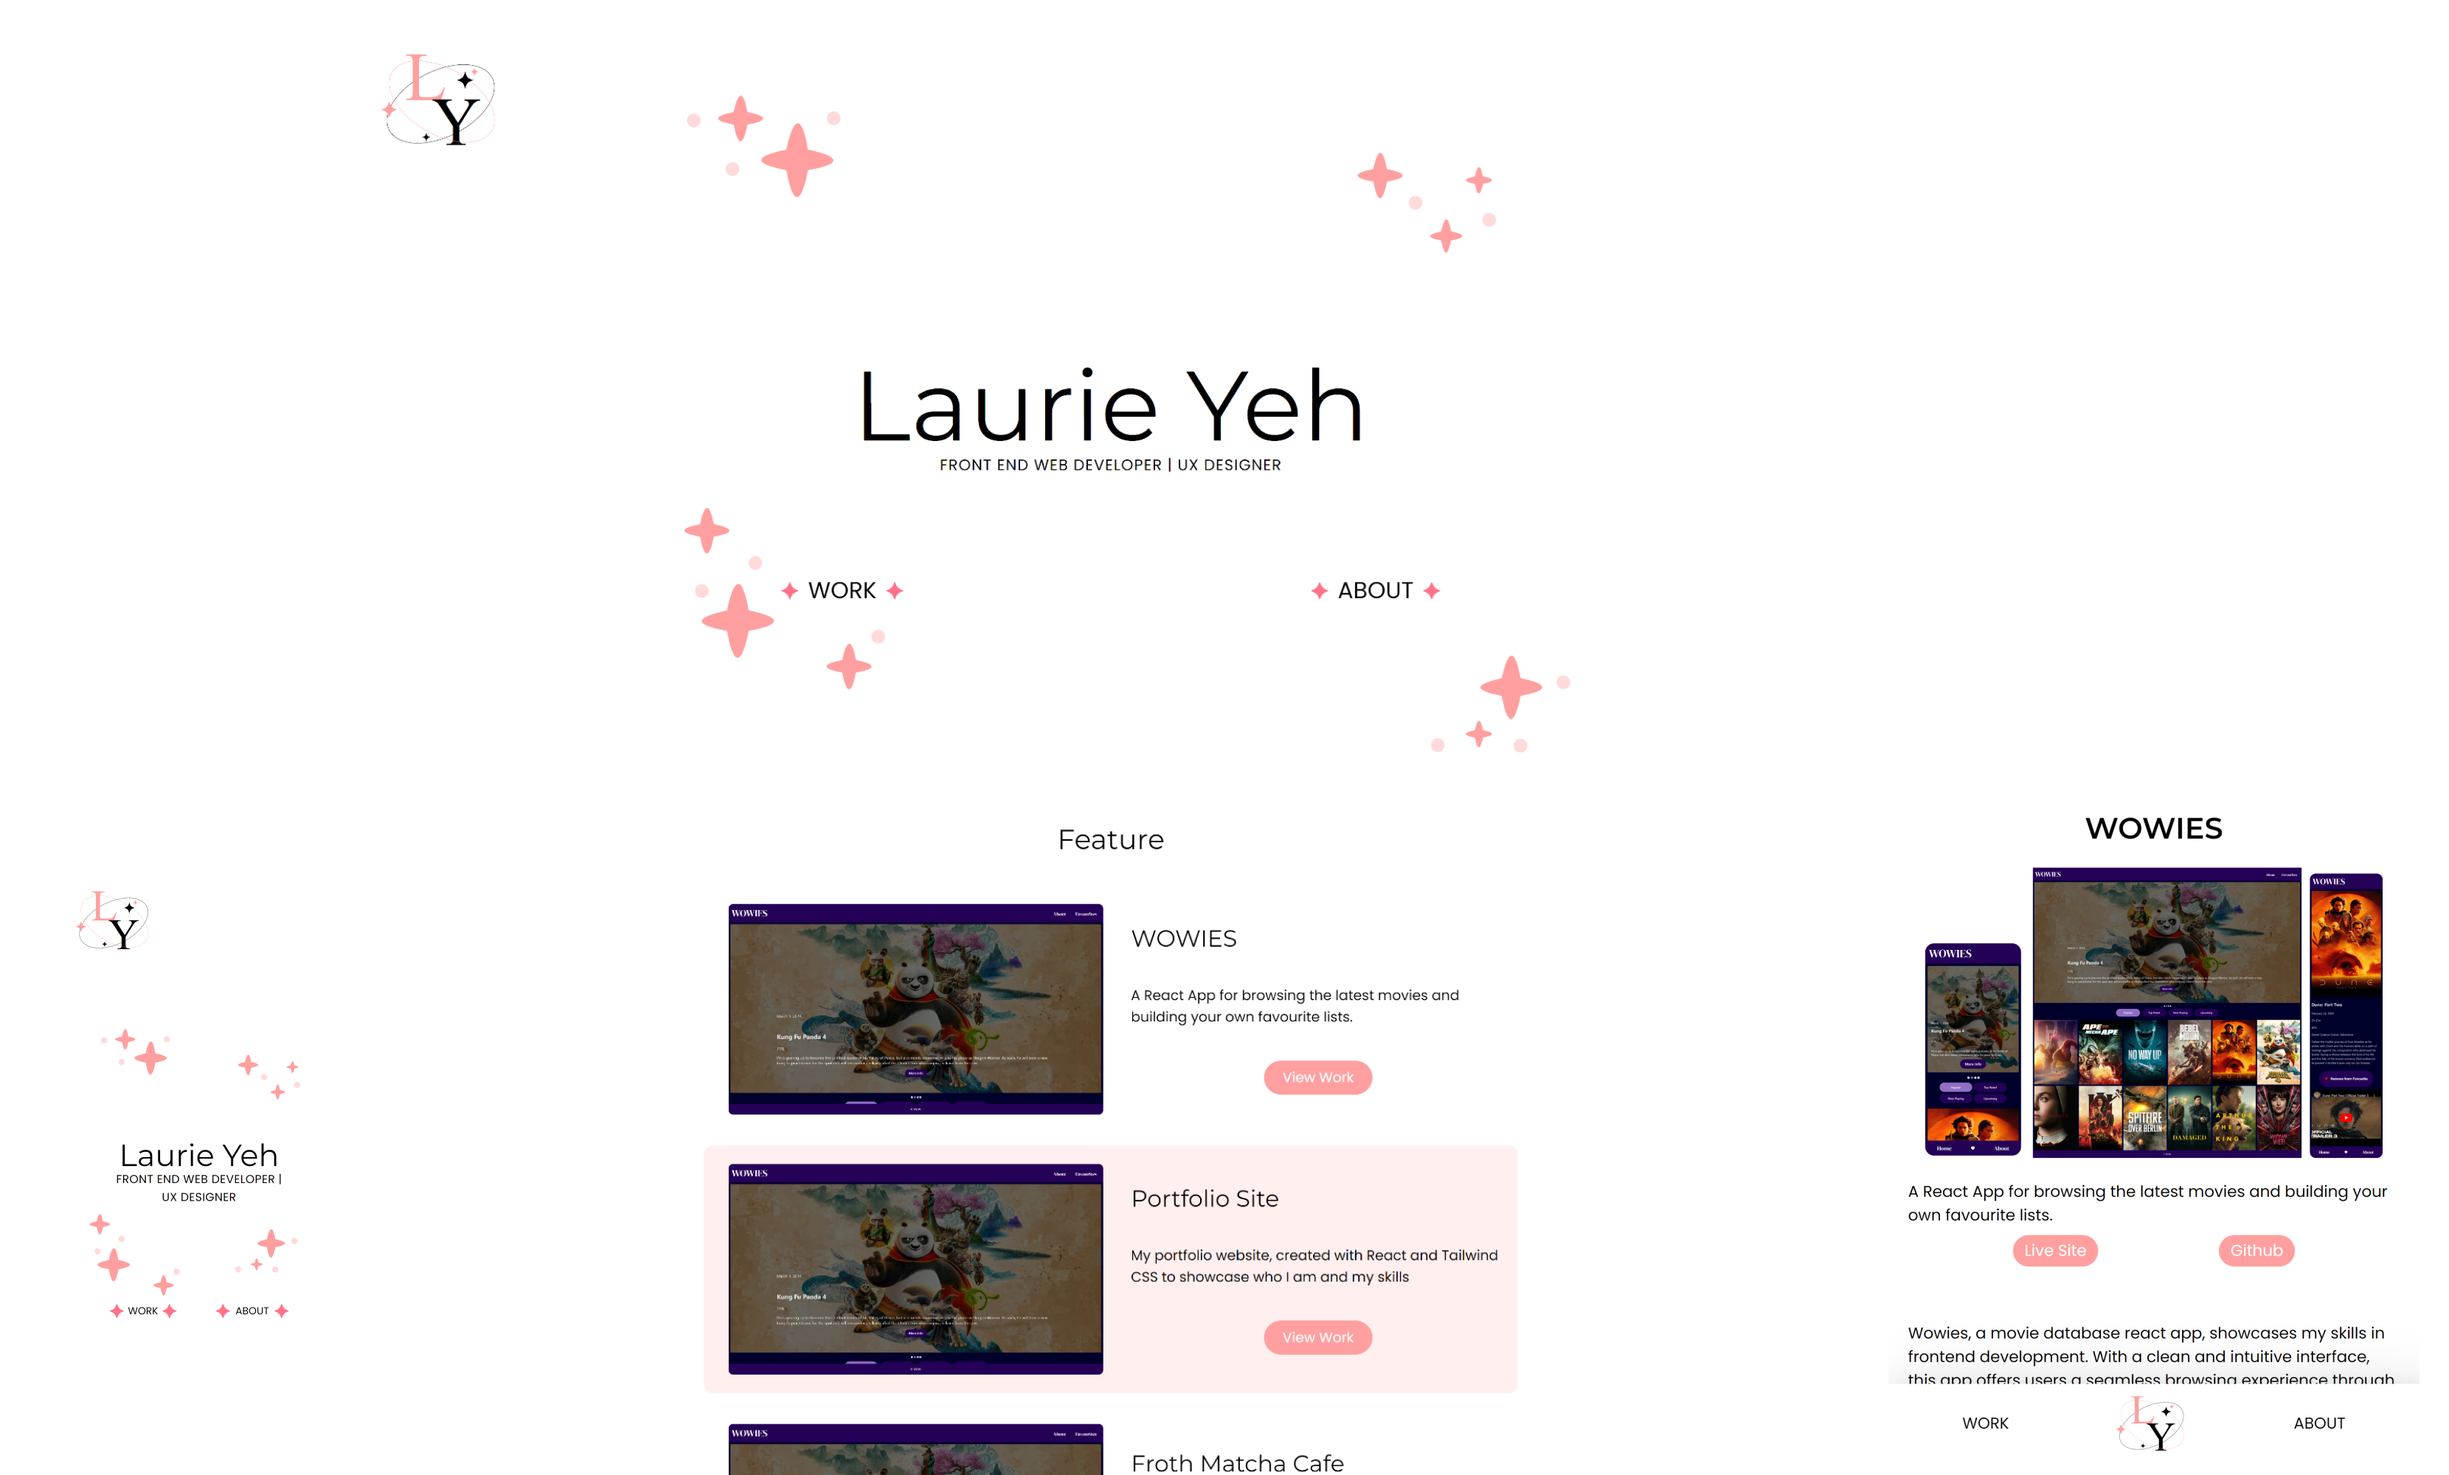
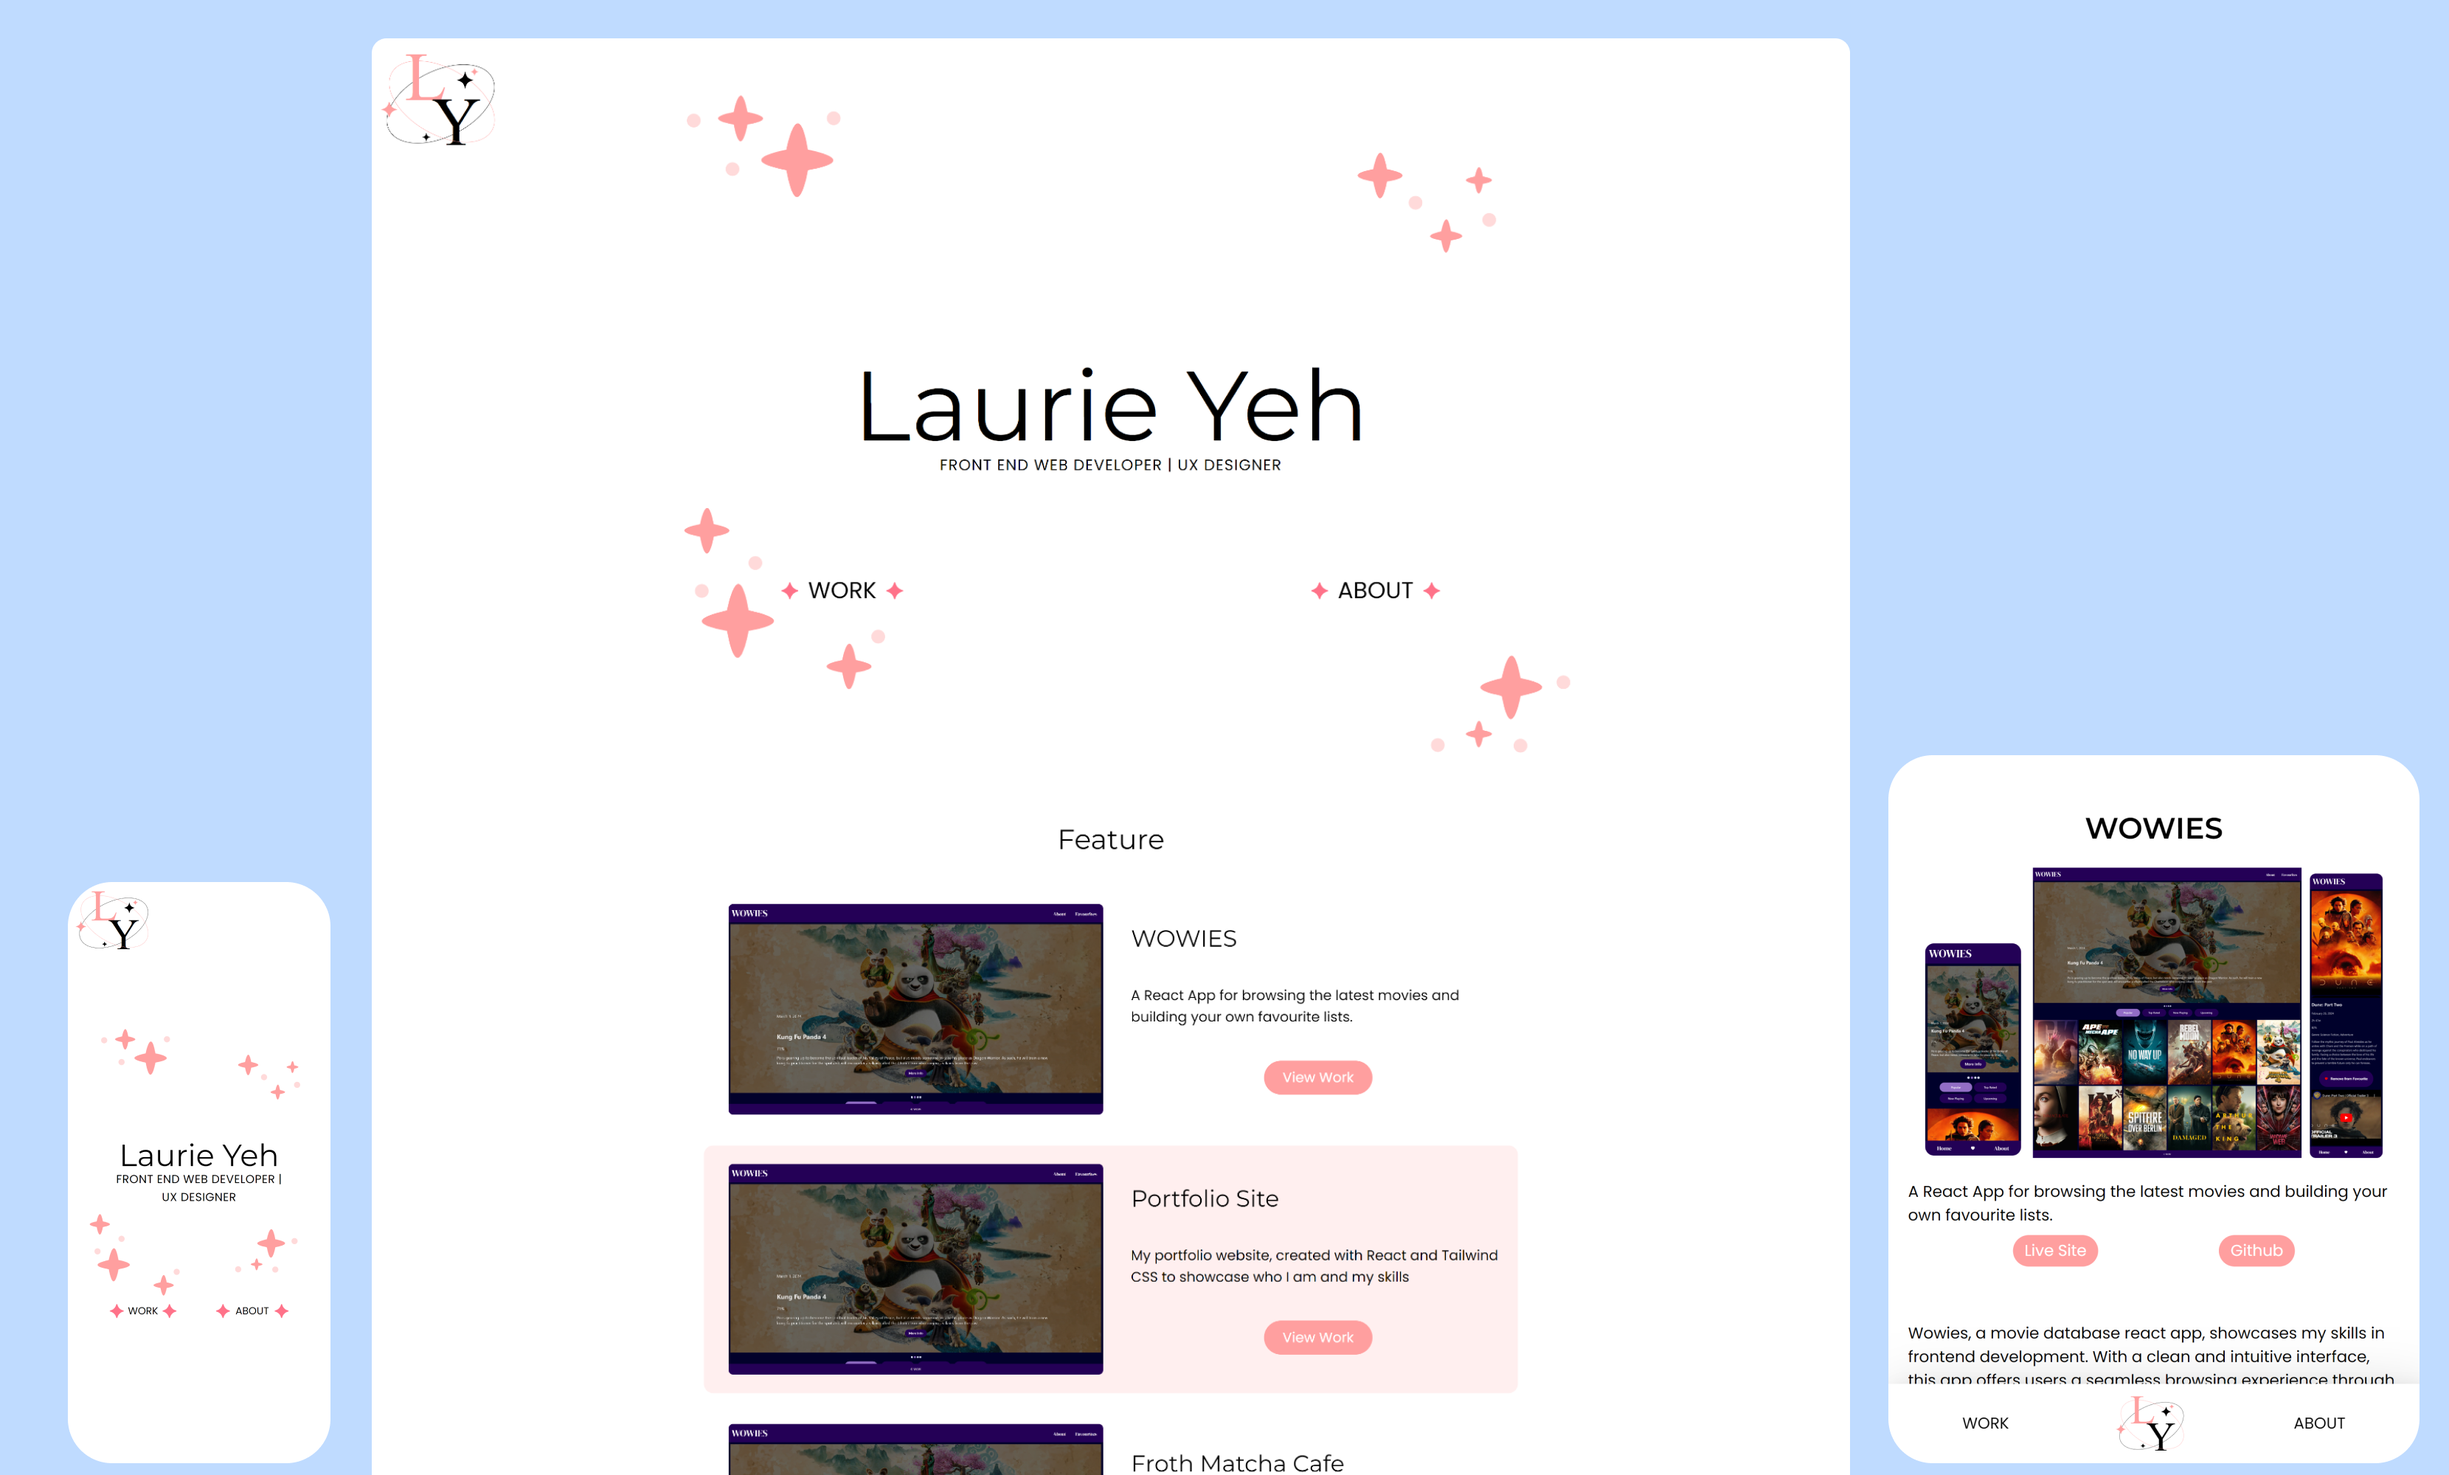
added work page and content for portfolio page

Changed region(s): [[0.0, 0.0, 1.0, 1.0]]

diff --git a/src/components/WorkList.jsx b/src/components/WorkList.jsx
@@ -1,18 +1,105 @@
 import React, {useEffect, useState} from 'react'
 import { Link } from 'react-router-dom';
 
+//animation 
+import AOS from 'aos';
+import 'aos/dist/aos.css';
+
+//size
+import { tabletWidth } from "../global/variables"; 
+import useWindowDimensions from '../components/ScreenSize'
+
+//loading
+import  Loading  from '../components/Loading';
+
 const WorkList = ({works}) => {
 
+  const [isLoaded, setLoadStatus] = useState(false)
+
+   //aos 
+   useEffect(() => {
+    AOS.init();
+  }, [])
+
+  //size 
+  const dimensions = useWindowDimensions();
+  const isTablet = dimensions.width > tabletWidth;
+
+  //loading
+  useEffect(() => {
+    setTimeout(() => {
+      setLoadStatus(true);
+    }, 1000);
+  }, []);
+
   return (
+    <div className='w-full overflow-hidden pb-10'>
+      {/* 5-> 20px, 1.25rem  */}
+    <h2 className='text-center p-10 md:pt-24 md:p-10'>Work</h2>
+
+    {!isLoaded ? (
+      <section className='loading'>
+        <Loading />
+      </section>
+    ):
     <div>
-    {works.map((obj) => (
-      <div key={obj.id}>
-        <p>{obj.name}</p>
-        <p>{obj.overview}</p>
-        <Link to={`/work/${obj.id}`}>{obj.name} link </Link>
-      </div>
-    ))}
-  </div>
+      {isTablet ? (
+        // tablet & desktop
+        <div className='flex flex-wrap justify-center mx-auto my-0 md:gap-4 md:max-w-5xl w-full'>
+        {works.map((obj, index) => (
+          <div key={obj.id}>
+            <article  data-aos={index % 2 === 0 ? "fade-right" : "fade-left"}  
+              className={`single-project gap-1 py-3 px-4 max-w-sm md:max-w-md
+              flex flex-col justify-center rounded-xl w-full ${index % 3 === 0 ? '' : 'bg-lightpink'}`}>
+              <div className="relative md:w-full ">
+                <img src={obj.image.desktop} alt={`${obj.name} desktop`} className='block h-auto w-full object-contain rounded-md'/>
+              </div>
+    
+              <div className='md:w-full md:gap-y-3 flex flex-col justify-evenly gap-y-2'>
+                <h3 className='md:pt-4'>{obj.name}</h3>
+                <p className='lg:text-lg'>{obj.overview}</p>
+                <Link className='flex flex-row items-center justify-center bg-theme text-white max-w-32 py-1 px-3 rounded-full mx-auto md:py-2 md:px-6 md:max-w-80 md:text-lg button_slide
+                focus:ring-4 focus:ring-theme focus:bg-white focus:text-theme' to={`/work/${obj.id}`}>
+                View Work 
+                </Link>
+              </div>
+            </article>
+          </div>
+          ))}
+        </div>
+      ):(
+        // mobile
+        <div className='flex flex-wrap justify-center md:mx-auto md:my-0'>
+        {works.map((obj, index) => (
+          <div key={obj.id}>
+            <article  data-aos={index % 2 === 0 ? "fade-left" : "fade-right"}  
+              className={`single-project gap-1 py-3 px-4 max-w-sm 
+              flex flex-col justify-center rounded-xl ${index % 2 === 0 ? '' : 'bg-lightpink md:bg-lightpink'}`}
+              >
+
+            
+              <div className="relative md:w-full ">
+                <img src={obj.image.desktop} alt={`${obj.name} desktop`} className='block h-auto w-full object-contain rounded-md'/>
+              </div>
+
+              <div className='md:w-full md:gap-y-3 flex flex-col justify-evenly gap-y-2'>
+                <h3 className='md:pt-4'>{obj.name}</h3>
+                <p className='md:text-lg'>{obj.overview}</p>
+                <Link className='flex flex-row items-center justify-center bg-theme text-white max-w-32 py-1 px-3 rounded-full mx-auto md:py-2 md:px-6 md:max-w-80 md:text-lg button_slide
+                focus:ring-4 focus:ring-theme focus:bg-white focus:text-theme' to={`/work/${obj.id}`}>
+                View Work 
+                </Link>
+              </div>
+            </article>
+          </div>
+        ))}
+        </div>
+      )}
+    </div>}
+    
+  
+    </div>
+    
   )
 }
 

diff --git a/src/components/Feature.jsx b/src/components/Feature.jsx
@@ -28,7 +28,7 @@ const Feature = () => {
           if (workData) {
             setTimeout(() => {
               setLoadStatus(true);
-            }, 2000);
+            }, 1000);
             console.log("loaded");
           } else {
             console.log("not loaded");
@@ -65,9 +65,9 @@ const Feature = () => {
     }, [])
     
   return (
-    <div>
+    <div className='pb-5'>
       {isLoaded ? 
-          <section className='feature-section flex flex-col items-center justify-center overflow-hidden' id="features">
+        <section className='feature-section flex flex-col items-center justify-center overflow-hidden' id="features">
         <h2 className=' py-3 md:py-4 lg:py-10'>Feature</h2>
         
         <div className='grid gap-4'>
@@ -78,15 +78,15 @@ const Feature = () => {
                  
                   <article  data-aos={index % 2 === 0 ? "fade-left" : "fade-right"}
                     
-                    className={`single-project flex flex-col flex-nowrap justify-between gap-1 py-2 px-4 max-w-sm md:flex-row md:gap-x-5 md:max-w-5xl ${index % 2 === 0 ? '' : 'rounded-xl bg-lightpink'}`}
+                    className={`single-project flex flex-col flex-nowrap justify-between gap-1 py-3 px-4 max-w-sm md:flex-row md:gap-x-5 md:max-w-5xl ${index % 2 === 0 ? '' : 'rounded-xl bg-lightpink'}`}
                   >
 
                     
-                    <div className="relative md:w-1/2 p-4">
+                    <div className="relative md:w-1/2 md:p-2">
                       <img src={obj.image.desktop} alt={`${obj.name} desktop`} className='block h-auto w-full object-contain rounded-md'/>
                     </div>
 
-                    <div className='md:w-1/2 md:flex md:flex-col md:justify-evenly'>
+                    <div className='md:w-1/2 flex flex-col justify-evenly gap-y-2'>
                       <h3 >{obj.name}</h3>
                       <p className='md:text-lg'>{obj.overview}</p>
                       <Link className='flex flex-row items-center justify-center bg-theme text-white max-w-32 py-1 px-3 rounded-full mx-auto md:py-2 md:px-6 md:max-w-80 md:text-lg button_slide
@@ -101,6 +101,11 @@ const Feature = () => {
           ))}
         </div>
 
+        <Link className='flex flex-row items-center justify-center bg-theme text-white text-sm mt-5 md:mt-8 md:mb-2
+       max-w-52 py-2 px-3 rounded-full mx-auto md:py-2 md:px-6 md:max-w-80 md:text-lg button_slide
+        focus:ring-4 focus:ring-theme focus:bg-white focus:text-theme' to='/work'>
+        View All Work →
+        </Link>
       
     </section>
 

diff --git a/src/components/WorkDetail.jsx b/src/components/WorkDetail.jsx
@@ -23,7 +23,7 @@ const WorkDetail = ({works}) => {
       setTimeout(() => {
         setSelectedWork(singleWork);
         setLoadStatus(true);
-    }, 2000);
+    }, 1000);
       
     }, [id, works]);
 
@@ -44,6 +44,7 @@ const WorkDetail = ({works}) => {
       <div>
   
             {isTablet ? (
+              // tablet & desktop
             <div className="w-full" style={{ backgroundColor: selectedWork.theme }}>
               <article className='flex flex-col flex-nowrap justify-between gap-1 py-8 pt-36 md:flex-row md:gap-x-5 md:max-w-5xl  md:mx-auto md:my-0'>
   
@@ -99,6 +100,7 @@ const WorkDetail = ({works}) => {
             </div>
             )
             : (
+              // mobile 
             <article className='flex flex-col flex-nowrap justify-between gap-1 py-4 pt-10 md:flex-row md:gap-x-5 md:max-w-5xl'>
   
               

diff --git a/src/pages/WorkDetailPage.jsx b/src/pages/WorkDetailPage.jsx
@@ -21,10 +21,10 @@ function WorkDetailPage() {
   return (
     <>
 
-      {isTablet ? 
+      
       <div>
         <Header />
-          <main className=' md:mx-auto md:my-0 pb-4'>
+          <main className={isTablet ? 'md:mx-auto md:my-0 pb-4' : ''}>
             
             <WorkDetail works={work}/> 
           </main>
@@ -33,16 +33,7 @@ function WorkDetailPage() {
       </div>
       
         
-        :
-        <div>
-        <Header />
-          <main className='px-5'>
-            <WorkDetail works={work}/> 
-          </main>
-            
-        <Footer /> 
-      </div>
-      }
+      
       
         
     </>

diff --git a/src/pages/WorkPage.jsx b/src/pages/WorkPage.jsx
@@ -28,10 +28,12 @@ function WorkPage() {
   return (
     <>
     
-    <div className='pt-10'>
+    <div>
       <Header />
+        <main className='px-5'>
+          <WorkList works={work}/> 
+        </main>
         
-        <WorkList works={work}/> 
       <Footer />
     </div>
     
